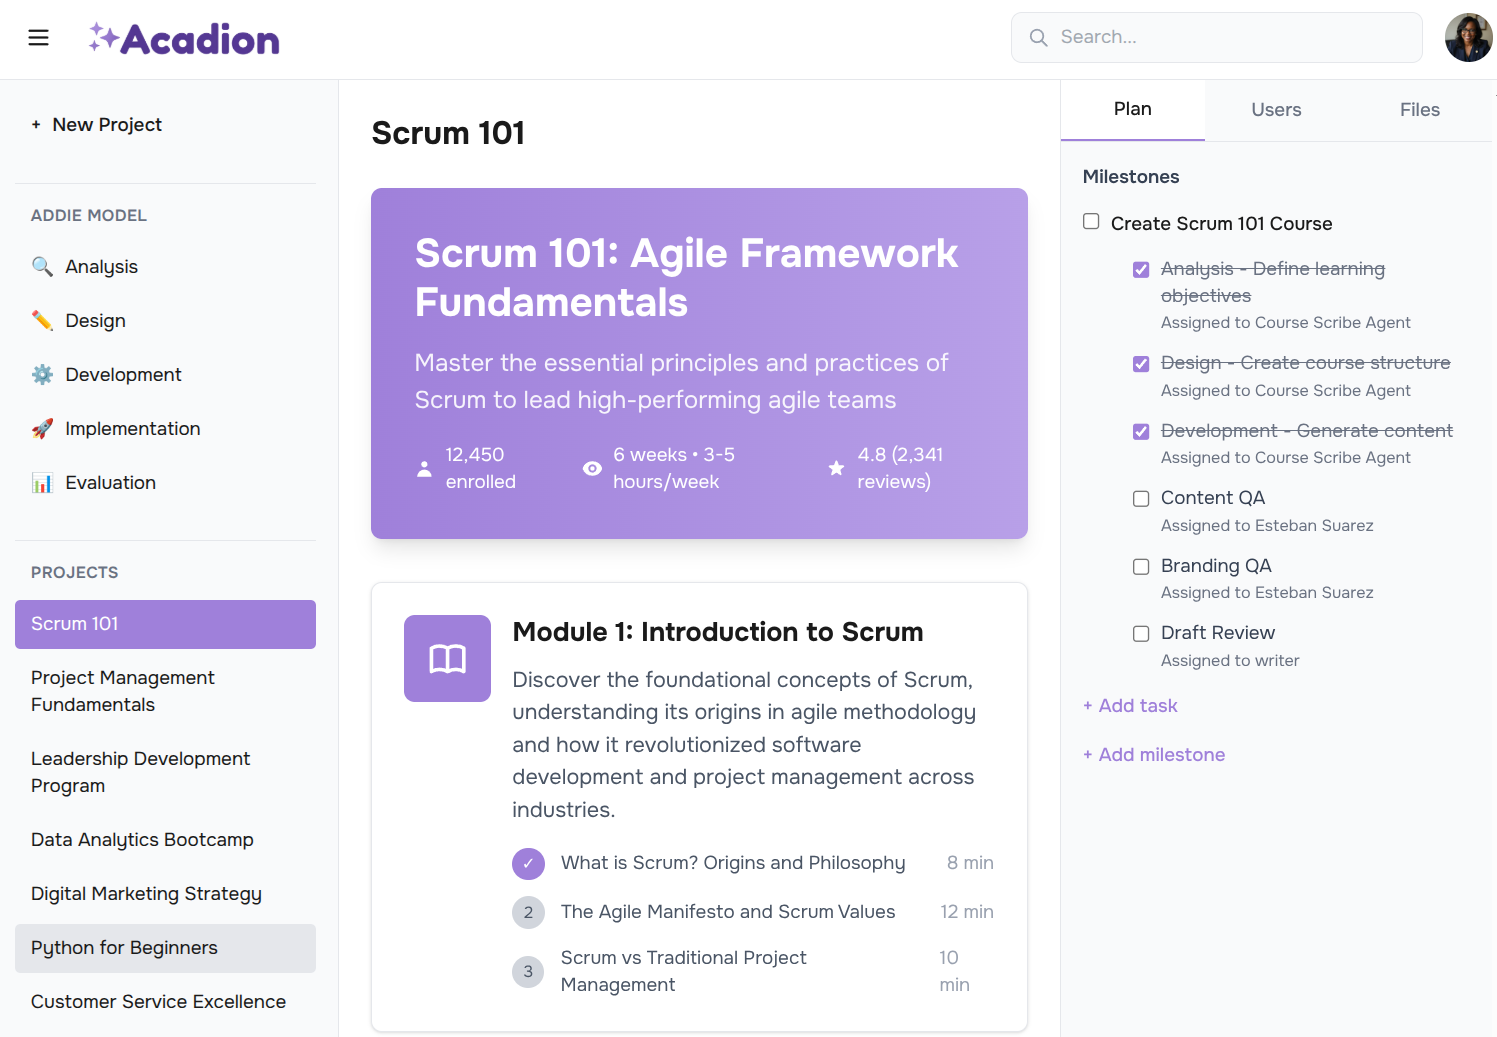
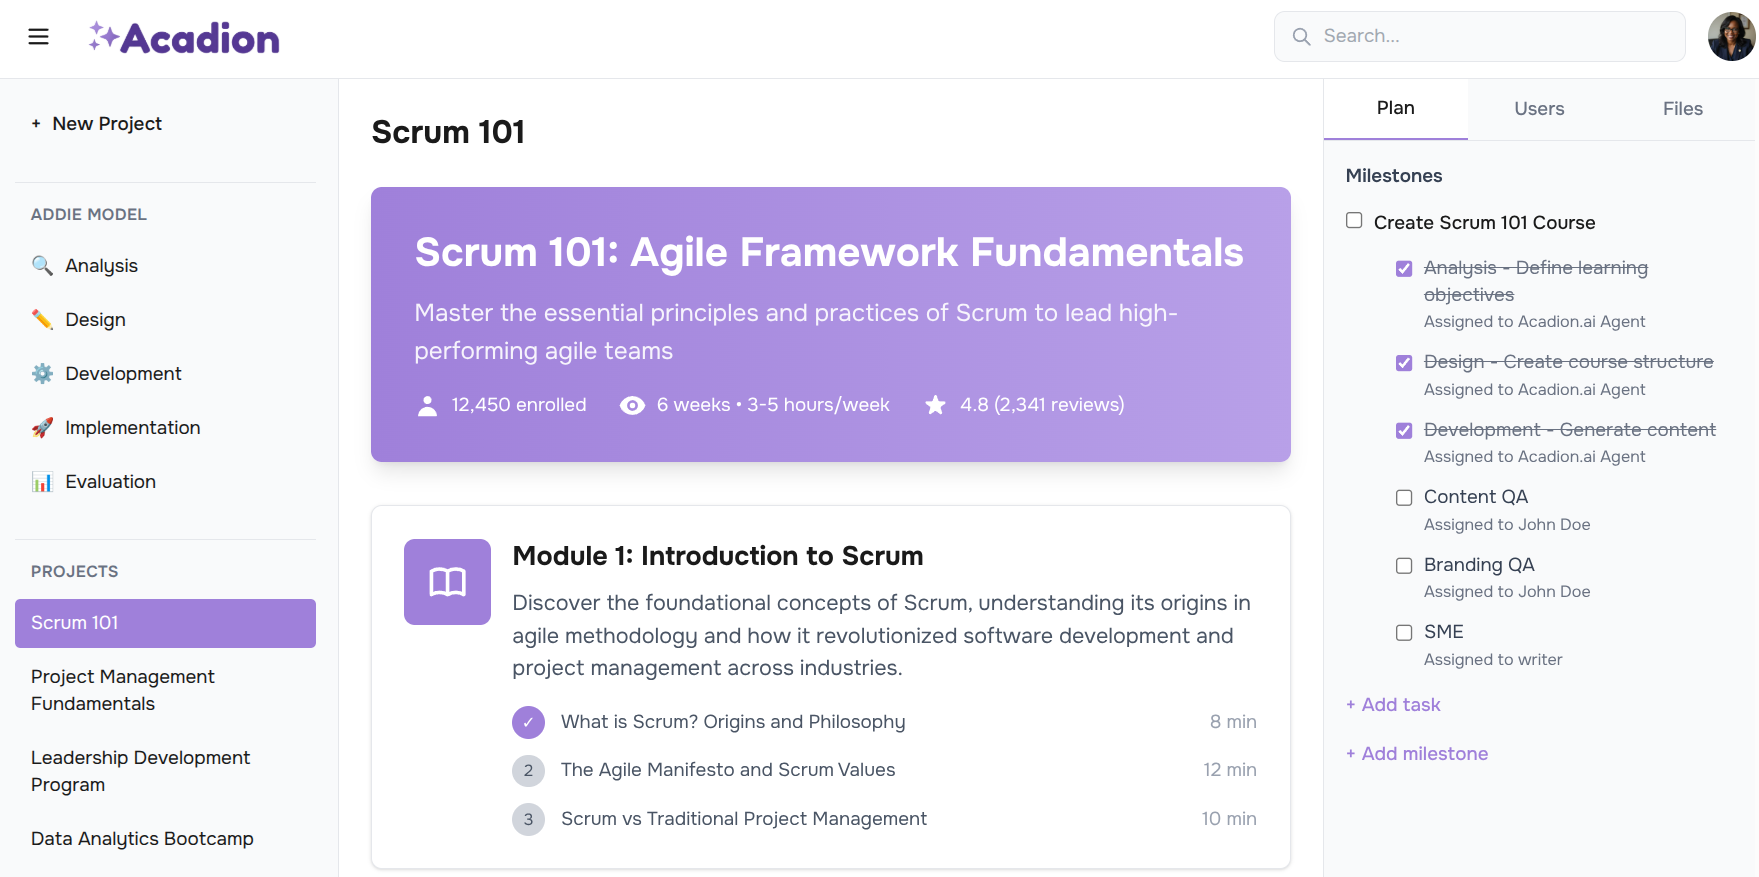
fixes

diff --git a/web/app/about/page.tsx b/web/app/about/page.tsx
@@ -45,7 +45,7 @@ export default function AboutPage() {
             transition={{ delay: 0.1 }}
             className="text-xl text-gray-600 leading-relaxed"
           >
-            We're a team of passionate instructional designers who transformed our vision into reality
+            We're a team of passionate instructional designers and developers who transformed our vision into reality
           </motion.p>
         </div>
       </section>
@@ -63,14 +63,14 @@ export default function AboutPage() {
             <div className="prose prose-lg max-w-none text-gray-600">
               <p className="mb-4">
                 It all started in a small co-working space in early 2023. We were a team of five instructional designers,
-                each with years of experience working in different sectors—corporate training, higher education,
+                each with years of experience working in different sectors: corporate training, higher education,
                 and EdTech startups. Despite our different backgrounds, we all shared the same frustrations.
               </p>
               <p className="mb-4">
                 The tools we used daily were either too complex, too limited, or simply didn't understand the unique
                 needs of instructional designers. We spent more time fighting with our tools than creating meaningful
                 learning experiences. The rise of AI promised to change everything, but most solutions felt like
-                they were built by engineers for engineers—not by educators for educators.
+                they were built by engineers for engineers, not by educators for educators.
               </p>
               <p className="mb-4">
                 One evening, over coffee and whiteboards filled with sketches, we asked ourselves: "What if we built
@@ -78,12 +78,12 @@ export default function AboutPage() {
               </p>
               <p className="mb-4">
                 We pooled our savings, left our stable jobs, and dove headfirst into building Acadion.ai. The early
-                days were intense—long nights of coding, countless user interviews with fellow instructional designers,
+                days were intense: long nights of coding, countless user interviews with fellow instructional designers,
                 and iterations upon iterations of our platform. We weren't just building software; we were crafting
                 a companion for the modern instructional designer.
               </p>
               <p className="mb-4">
-                Our breakthrough came when we realized that AI shouldn't replace the instructional designer's expertise—
+                Our breakthrough came when we realized that AI shouldn't replace the instructional designer's expertise,
                 it should amplify it. We developed our Course Copilot to work alongside designers, handling the
                 repetitive tasks and technical complexities while leaving the creative and pedagogical decisions where
                 they belong: in your hands.
@@ -128,7 +128,7 @@ export default function AboutPage() {
               <div className="w-12 h-12 bg-blue-100 rounded-lg flex items-center justify-center mb-4">
                 <Lightbulb className="w-6 h-6 text-blue-600" />
               </div>
-              <h3 className="text-xl font-bold text-gray-900 mb-2">Innovation</h3>
+              <h3 className="text-xl font-bold text-gray-900 mb-2">AI Innovation</h3>
               <p className="text-gray-600">
                 We continuously push boundaries to bring cutting-edge AI technology to learning design.
               </p>
@@ -160,7 +160,7 @@ export default function AboutPage() {
               </div>
               <h3 className="text-xl font-bold text-gray-900 mb-2">Community</h3>
               <p className="text-gray-600">
-                We're building more than software—we're fostering a community of innovative learning professionals.
+                We're building more than software; we're fostering a community of innovative learning professionals.
               </p>
             </motion.div>
           </div>

diff --git a/web/app/page.tsx b/web/app/page.tsx
@@ -261,7 +261,7 @@ export default function Home() {
     },
     {
       title: 'Professional Portfolio',
-      description: 'Showcase your courses to clients and companies with a single click. Create a professional presentation of your work that impresses stakeholders and wins new business. Add a bio to personalize your portfolio. Get metrics of the visits to your portfolio.',
+      description: 'Showcase your courses to clients and companies with a single click. Create a professional presentation of your work that impresses stakeholders and wins new business. Add a bio to personalize it. Get metrics of visits and engagement.',
       image: '/landing/feature15.gif',
       plan: 'Pro'
     },
@@ -347,7 +347,7 @@ export default function Home() {
   const faqs = [
     {
       question: 'What AI models does Acadion.ai use?',
-      answer: 'Acadion.ai leverages the most advanced generative AI models available, including OpenAI (GPT-4), Anthropic (Claude), and Google Gemini. This multi-model approach ensures you get the best results for different types of content generation and analysis.'
+      answer: 'Acadion.ai leverages the most advanced generative AI models available, including OpenAI (GPT-5), Anthropic (Claude), and Google Gemini. This multi-model approach ensures you get the best results for different types of content generation and analysis.'
     },
     {
       question: 'What types of content can I upload to Acadion.ai?',
@@ -599,7 +599,7 @@ export default function Home() {
 
             <motion.div variants={fadeInUp} className="flex flex-col sm:flex-row gap-4 justify-center items-center">
               <a
-                href="#contact"
+                href="#pricing"
                 className="bg-[#9F80DA] text-white px-8 py-4 rounded-full hover:bg-[#8A6BC5] transition-all transform hover:scale-105 text-lg font-medium shadow-lg flex items-center gap-2"
               >
                 Get Started for Free
@@ -849,7 +849,7 @@ export default function Home() {
               {
                 step: '01',
                 title: 'Sign Up',
-                description: 'Create your free account in seconds. No credit card required. Start with our generous free tier.',
+                description: 'Create your free account in seconds. No credit card required.',
                 icon: (
                   <svg className="w-12 h-12" fill="none" stroke="currentColor" viewBox="0 0 24 24">
                     <path strokeLinecap="round" strokeLinejoin="round" strokeWidth={2} d="M18 9v3m0 0v3m0-3h3m-3 0h-3m-2-5a4 4 0 11-8 0 4 4 0 018 0zM3 20a6 6 0 0112 0v1H3v-1z" />
@@ -1279,7 +1279,7 @@ export default function Home() {
                 Create engaged and interactive AI powered learning experiences
               </p>
               <a
-                href="#contact"
+                href="#pricing"
                 className="inline-block bg-[#9F80DA] text-white px-6 py-2.5 rounded-full hover:bg-[#8A6BC5] transition-colors font-medium"
               >
                 Start Now

diff --git a/web/app/components/features-landing/MultiLanguageFeature.tsx b/web/app/components/features-landing/MultiLanguageFeature.tsx
@@ -32,8 +32,11 @@ export default function MultiLanguageFeature() {
             <button className="w-full px-2 py-1.5 md:px-3 md:py-2 text-left hover:bg-gray-50 transition-colors border-b border-gray-100">
               <div className="text-xs md:text-sm font-medium text-gray-800">French</div>
             </button>
-            <button className="w-full px-2 py-1.5 md:px-3 md:py-2 text-left hover:bg-gray-50 transition-colors">
+            <button className="w-full px-2 py-1.5 md:px-3 md:py-2 text-left hover:bg-gray-50 transition-colors border-b border-gray-100">
               <div className="text-xs md:text-sm font-medium text-gray-800">German</div>
+            </button>
+            <button className="w-full px-2 py-1.5 md:px-3 md:py-2 text-left hover:bg-gray-50 transition-colors">
+              <div className="text-xs md:text-sm font-medium text-gray-800">Other</div>
             </button>
           </div>
           )}

diff --git a/web/app/components/features-landing/AIImageGenerationFeature.tsx b/web/app/components/features-landing/AIImageGenerationFeature.tsx
@@ -30,10 +30,7 @@ export default function AIImageGenerationFeature() {
                 className="w-full text-[10px] md:text-xs text-gray-700 bg-gray-50 px-2 py-1.5 md:px-3 md:py-2 rounded border border-gray-300 outline-none cursor-default resize-none"
               />
               <button className="w-full px-2 py-1.5 md:px-3 md:py-2 bg-[#9F80DA] hover:bg-[#8A6BC5] text-white text-[10px] md:text-xs rounded font-medium transition-colors flex items-center justify-center gap-1">
-                <svg className="w-3 h-3 md:w-3.5 md:h-3.5" fill="none" stroke="currentColor" viewBox="0 0 24 24">
-                  <path strokeLinecap="round" strokeLinejoin="round" strokeWidth={2} d="M12 4v16m8-8H4" />
-                </svg>
-                Apply
+                Generate
               </button>
             </div>
           </div>

diff --git a/web/app/mock/page.tsx b/web/app/mock/page.tsx
@@ -34,9 +34,9 @@ export default function MockDashboard() {
         { title: 'Analysis - Define learning objectives', assigned: 'Acadion.ai Agent', checked: true },
         { title: 'Design - Create course structure', assigned: 'Acadion.ai Agent', checked: true },
         { title: 'Development - Generate content', assigned: 'Acadion.ai Agent', checked: true },
-        { title: 'Content QA', assigned: 'Esteban Suarez', checked: false },
-        { title: 'Branding QA', assigned: 'Esteban Suarez', checked: false },
-        { title: 'Draft Review', assigned: 'writer', checked: false }
+        { title: 'Content QA', assigned: 'John Doe', checked: false },
+        { title: 'Branding QA', assigned: 'John Doe', checked: false },
+        { title: 'SME', assigned: 'writer', checked: false }
       ]
     }
   ];

diff --git a/web/app/components/features-landing/ProjectManagementFeature.tsx b/web/app/components/features-landing/ProjectManagementFeature.tsx
@@ -55,7 +55,7 @@ export default function ProjectManagementFeature() {
             className="w-6 h-6 md:w-7 md:h-7 rounded-full border-2 border-gray-300"
           />
           <input type="checkbox" className="w-4 h-4 md:w-5 md:h-5 text-[#9F80DA] rounded" />
-          <span className="text-gray-700 text-sm md:text-base font-medium flex-1">Learning Objectives</span>
+          <span className="text-gray-700 text-sm md:text-base font-medium flex-1">Define Learning Objectives</span>
         </label>
       </div>
     </div>
